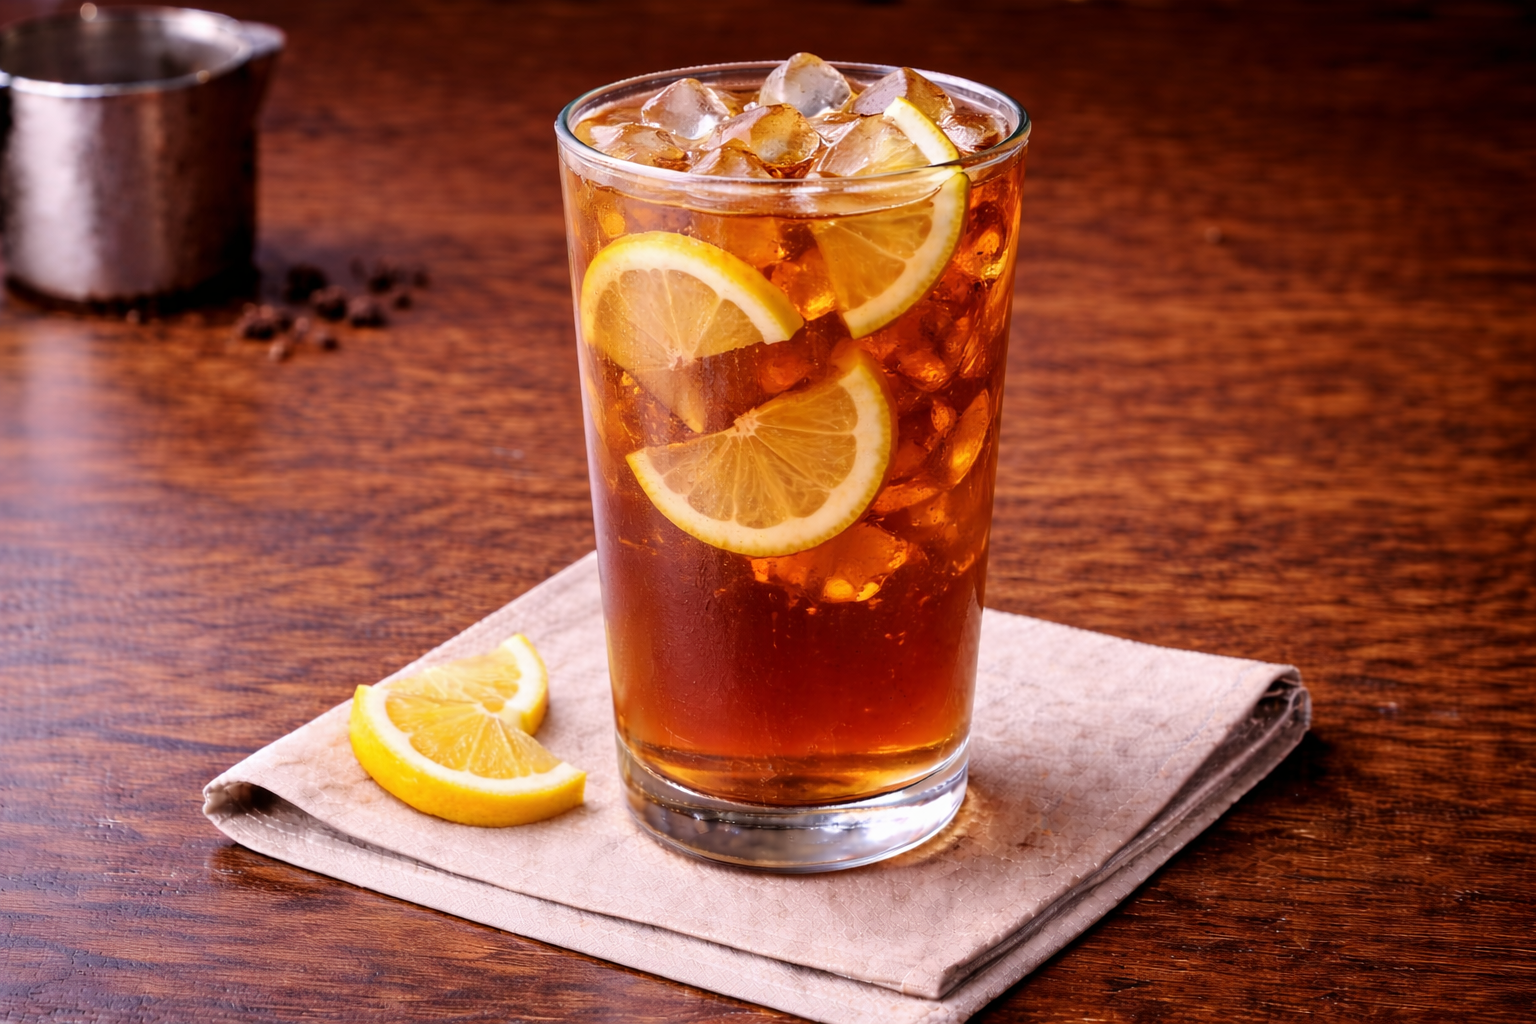
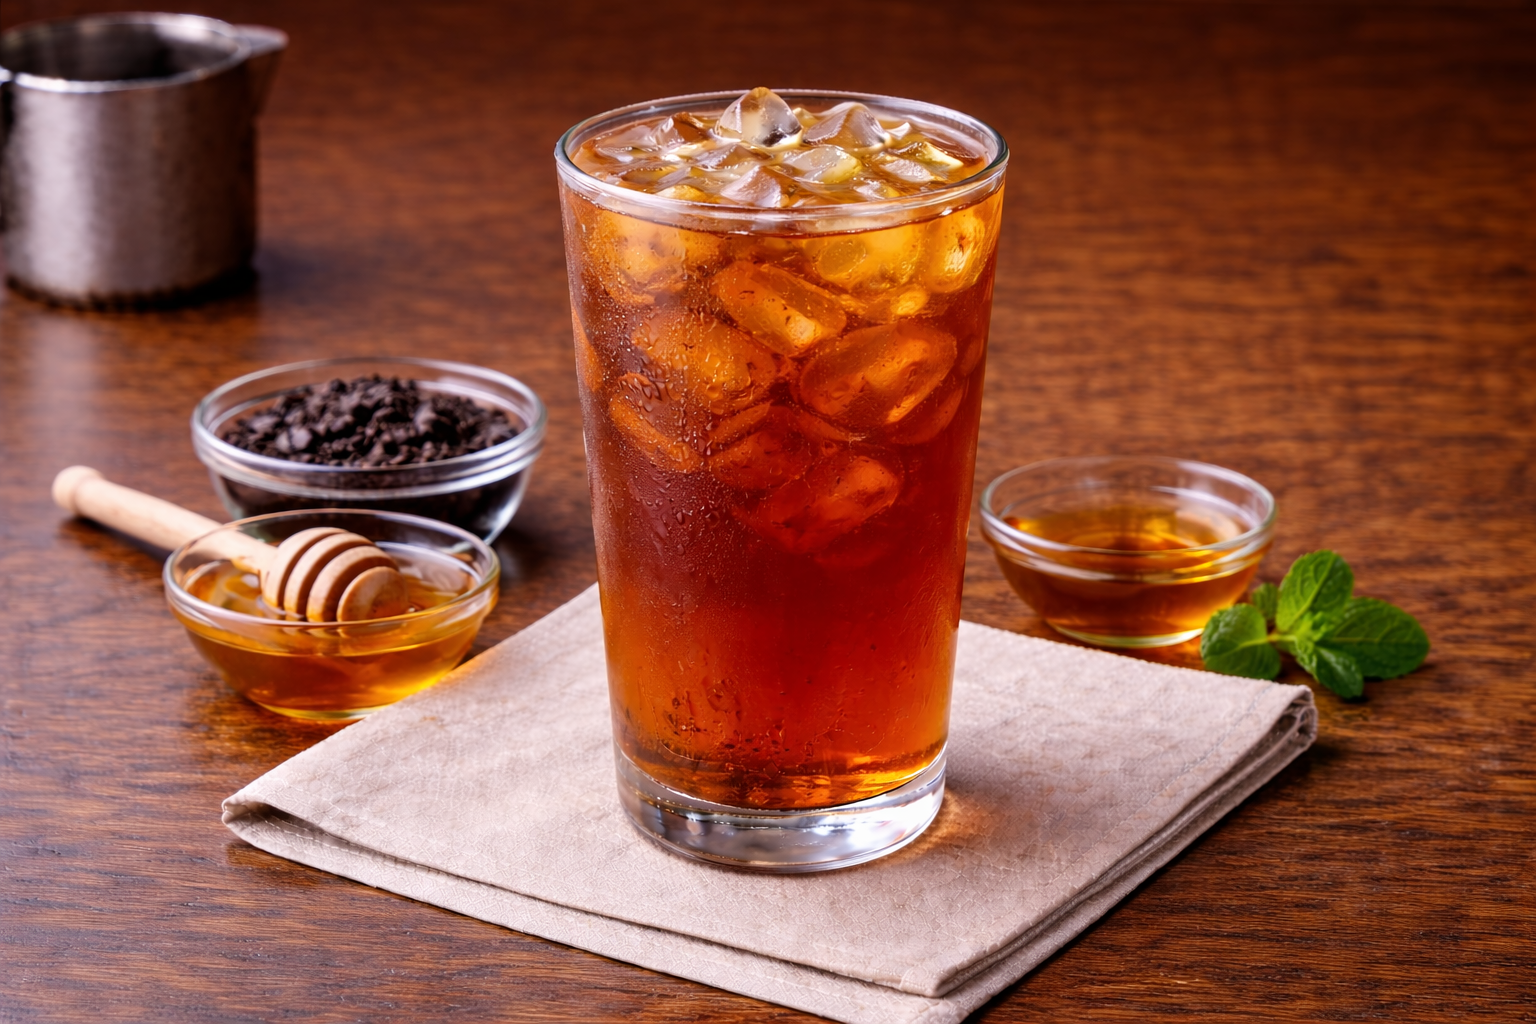
[FRONTDESIGN] added New items to menu

diff --git a/server/seedMenuItemsFromCSV.js b/server/seedMenuItemsFromCSV.js
@@ -391,15 +391,14 @@ export const menuItemsFromCSV = [
     modifierGroupNames: ["Milk Choice (Smoothies)", "Smoothie Add-Ons", "Yogurt Choice"],
   },
   {
-    name: "Espresso Energy",
-    description:
-      "Espresso, milk, yogurt, cocoa, cinnamon, honey (served over ice)\nAllergens: Dairy",
+    name: "Dirty Banana Smoothie",
+    description: "Espresso, Banana, Yogurt Chocolate Sauce, Honey\nAllergens: Dairy",
     price: 7.75,
     currency: "USD",
     section: "Smoothies (Organic & Fresh)",
-    tags: ["smoothie", "organic", "fresh", "espresso", "energy"],
+    tags: ["smoothie", "organic", "fresh", "espresso", "banana"],
     allergens: ["Dairy"],
-    image: "/images/menu/Smoothies/EspressoEnergyLand.png",
+    image: "/images/menu/Smoothies/DirtyBananaSmoothieLand.png",
     available: true,
     active: true,
     modifierGroupNames: [
@@ -554,6 +553,19 @@ export const menuItemsFromCSV = [
     modifierGroupNames: ["Tea Selection"],
   },
   {
+    name: "Iced Tea",
+    description: "Fresh-brewed tea served over ice.",
+    price: 3.25,
+    currency: "USD",
+    section: "Tea",
+    tags: ["tea", "iced"],
+    allergens: [],
+    image: "/images/menu/Favorites/IcedTeaLand.png",
+    available: true,
+    active: true,
+    modifierGroupNames: ["Tea Selection", "Cold Cup Size", "Ice Level"],
+  },
+  {
     name: "Chai Latte (Hot)",
     description: "Spiced chai blended with steamed milk.",
     price: 5.25,
@@ -632,6 +644,42 @@ export const menuItemsFromCSV = [
     tags: ["tea", "iced", "matcha", "strawberry"],
     allergens: ["Dairy"],
     image: "/images/menu/Favorites/StrawberryMatchaLatteLand.png",
+    available: true,
+    active: true,
+    modifierGroupNames: [
+      "Cold Brew Cup Size (16-20)",
+      "Syrup Pumps (+$0.20 each)",
+      "Milk Choice",
+      "Ice Level",
+    ],
+  },
+  {
+    name: "Iced Blueberry Matcha Latte",
+    description: "Matcha with blueberry and milk, shaken over ice.",
+    price: 6.25,
+    currency: "USD",
+    section: "Tea",
+    tags: ["tea", "iced", "matcha", "blueberry"],
+    allergens: ["Dairy"],
+    image: "/images/menu/Favorites/BlueberryMatchaLatteLand.png",
+    available: true,
+    active: true,
+    modifierGroupNames: [
+      "Cold Brew Cup Size (16-20)",
+      "Syrup Pumps (+$0.20 each)",
+      "Milk Choice",
+      "Ice Level",
+    ],
+  },
+  {
+    name: "Iced Mango Matcha Latte",
+    description: "Matcha with mango and milk, shaken over ice.",
+    price: 6.25,
+    currency: "USD",
+    section: "Tea",
+    tags: ["tea", "iced", "matcha", "mango"],
+    allergens: ["Dairy"],
+    image: "/images/menu/Favorites/MangoMatchaLatte.png",
     available: true,
     active: true,
     modifierGroupNames: [

diff --git a/client/src/app/order/page.js b/client/src/app/order/page.js
@@ -433,6 +433,20 @@ function OrderPageContent() {
     }).format(price);
   };
 
+  // Hot coffee = Coffee & Espresso section + hot (not iced/cold)
+  const isHotCoffeeDrink = (item) => {
+    const section = (item.section || "").trim();
+    const name = (item.name || "").toLowerCase();
+    const tags = Array.isArray(item.tags) ? item.tags.map((t) => (t || "").toLowerCase()) : [];
+    if (section !== "Coffee & Espresso") return false;
+    if (tags.includes("hot")) return true;
+    if (tags.includes("iced") || tags.includes("cold")) return false;
+    if (name.startsWith("iced") || name.startsWith("cold") || name.includes("cold brew")) return false;
+    return true; // default Coffee & Espresso items to hot if no cold/iced tag
+  };
+
+  const cartHasHotCoffee = cart.some(isHotCoffeeDrink);
+
   // Validation functions
   const validatePhone = (phone) => {
     // Remove all non-digit characters for validation
@@ -1215,6 +1229,19 @@ function OrderPageContent() {
                 })}
               </div>
 
+              {cartHasHotCoffee && (
+                <div className="mt-4 rounded-xl border-2 border-amber-200 bg-amber-50 p-4">
+                  <p className="flex items-start gap-2 text-sm font-medium text-amber-900">
+                    <svg className="mt-0.5 h-5 w-5 flex-shrink-0 text-amber-600" fill="none" stroke="currentColor" viewBox="0 0 24 24" aria-hidden>
+                      <path strokeLinecap="round" strokeLinejoin="round" strokeWidth={2} d="M13 16h-1v-4h-1m1-4h.01M21 12a9 9 0 11-18 0 9 9 0 0118 0z" />
+                    </svg>
+                    <span>
+                      Your order includes hot coffee. We&apos;ll make it when you arrive so it stays fresh and delicious.
+                    </span>
+                  </p>
+                </div>
+              )}
+
               <div className="mt-6 border-t border-gray-200 pt-4">
                 <div className="space-y-2">
                   <div className="flex justify-between text-sm">
@@ -1575,6 +1602,11 @@ function OrderPageContent() {
                       </div>
                     ) : (
                       <>
+                        {cartHasHotCoffee && (
+                          <p className="mb-3 text-center text-sm font-medium text-amber-800">
+                            Hot coffee in your order will be made when you arrive for pickup.
+                          </p>
+                        )}
                         <div className="rounded-lg border-2 border-[var(--lime-green)] bg-[var(--lime-green-light)] p-6 text-center">
                           <p className="mb-4 text-gray-700">
                             You will be redirected to Clover's secure payment page to complete your order.

diff --git a/server/seed.js b/server/seed.js
@@ -180,15 +180,14 @@ const menuItems = [
     active: true,
   },
   {
-    name: "Espresso Energy",
-    description:
-      "Espresso, Oat Milk, Vanilla Yogurt, Cocoa Powder, Cinnamon, Honey (Served Over Ice)",
+    name: "Dirty Banana Smoothie",
+    description: "Espresso, Banana, Yogurt Chocolate Sauce, Honey",
     price: 7.75,
     currency: "USD",
     section: "Smoothies (Organic & Fresh)",
-    tags: ["smoothie", "organic", "fresh", "espresso", "energy"],
+    tags: ["smoothie", "organic", "fresh", "espresso", "banana"],
     allergens: ["Dairy"],
-    image: "/images/menu/Smoothies/EspressoEnergyLand.png",
+    image: "/images/menu/Smoothies/DirtyBananaSmoothieLand.png",
     available: true,
     active: true,
   },
@@ -356,7 +355,7 @@ const locations = [
     postalCode: "20852",
     country: "US",
     coordinates: { lat: 39.0629, lng: -77.1291 },
-    phone: "[phone redacted]",
+    phone: "[phone redacted]",
     email: "[email redacted]",
     mapsUrl: "",
     hours: [

diff --git a/client/src/app/privacy/page.js b/client/src/app/privacy/page.js
@@ -369,10 +369,10 @@ export default function PrivacyPolicyPage() {
                 <p className="mb-2">
                   Phone:{" "}
                   <a
-                    href="tel:[phone redacted]"
+                    href="tel:[phone redacted]"
                     className="text-[var(--lime-green)] hover:underline"
                   >
-                    [phone redacted]
+                    [phone redacted]
                   </a>
                 </p>
                 <p className="mb-2">

diff --git a/client/src/app/terms/page.js b/client/src/app/terms/page.js
@@ -242,10 +242,10 @@ export default function TermsOfUsePage() {
                 <li>
                   Phone:{" "}
                   <a
-                    href="tel:[phone redacted]"
+                    href="tel:[phone redacted]"
                     className="text-[var(--lime-green)] underline hover:text-[var(--lime-green-dark)]"
                   >
-                    [phone redacted]
+                    [phone redacted]
                   </a>
                 </li>
                 <li>Visit our <Link href="/location" className="text-[var(--lime-green)] underline hover:text-[var(--lime-green-dark)]">Location</Link> page for address, hours, and more contact information</li>

diff --git a/client/src/components/Footer.js b/client/src/components/Footer.js
@@ -135,8 +135,8 @@ export default function Footer() {
           <div>
             <h3 className="mb-4 text-lg font-semibold">Contact</h3>
             <p className="mb-2 text-sm text-gray-300">
-              <a href="tel:[phone redacted]" className="transition-colors hover:text-[var(--lime-green)]">
-                [phone redacted]
+              <a href="tel:[phone redacted]" className="transition-colors hover:text-[var(--lime-green)]">
+                [phone redacted]
               </a>
             </p>
             <p className="mb-4 text-sm text-gray-300">

diff --git a/server/scripts/mapMenuItemsFromCSV.js b/server/scripts/mapMenuItemsFromCSV.js
@@ -268,8 +268,8 @@ function parseCSVData() {
       allergens: [],
     },
     {
-      name: "Espresso Energy",
-      description: "Espresso, milk, yogurt, cocoa, cinnamon, honey (served over ice)\nAllergens: Dairy",
+      name: "Dirty Banana Smoothie",
+      description: "Espresso, Banana, Yogurt Chocolate Sauce, Honey\nAllergens: Dairy",
       price: 7.75,
       section: "Smoothies",
       modifierGroups: ["Shot Preference", "Milk Choice", "Smoothie Add-Ons", "Yogurt Choice"],

diff --git a/server/seedModifierGroups.js b/server/seedModifierGroups.js
@@ -148,9 +148,9 @@ export const modifierGroups = [
   },
   {
     name: "Ice Level",
-    description: "Select your ice preference",
+    description: "Select your ice preference (optional)",
     type: "single",
-    required: true,
+    required: false,
     options: [
       { name: "No Ice", price: 0, available: true },
       { name: "Light Ice", price: 0, available: true },

diff --git a/server/routes/menu.js b/server/routes/menu.js
@@ -81,7 +81,7 @@ router.get("/", async (req, res, next) => {
         "Tropical Bliss",
         "Nutty Banana Bliss",
         "Guava Cream",
-        "Espresso Energy",
+        "Dirty Banana Smoothie",
       ];
       
       items.sort((a, b) => {